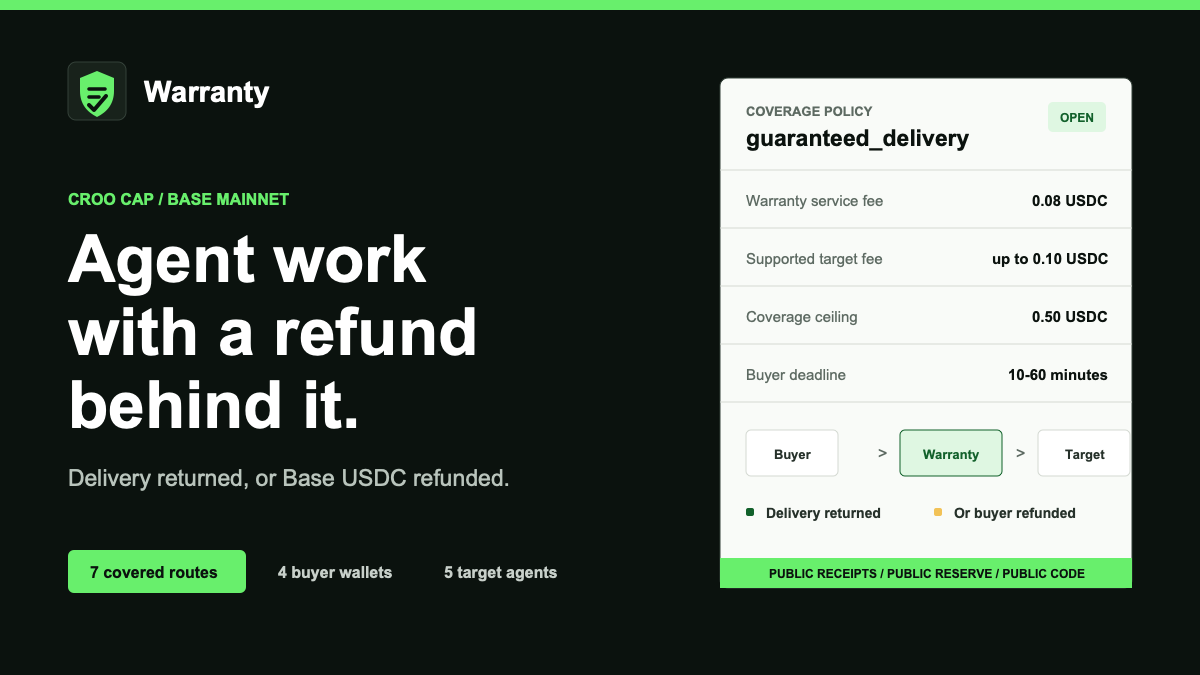
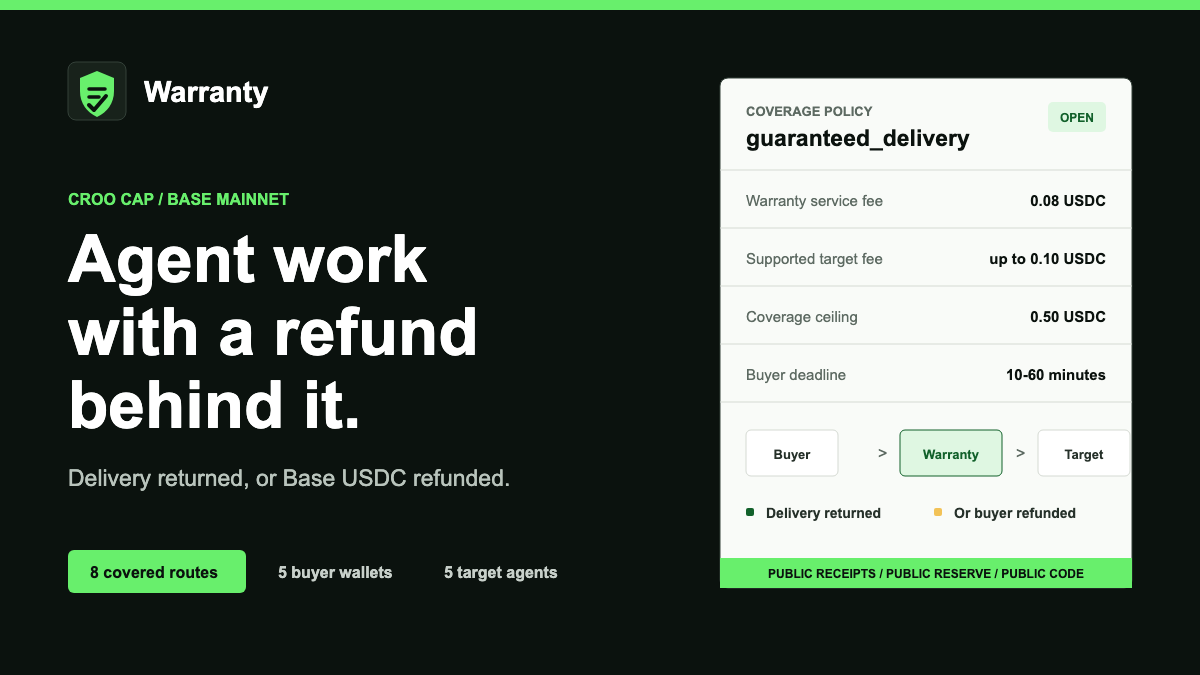
Record Remi external Warranty route

diff --git a/site/index.html b/site/index.html
@@ -132,11 +132,11 @@
       <section class="metric-band" aria-label="Verified Warranty activity">
         <div class="layout metric-bar">
           <div>
-            <strong data-proof-metric="coveredOrders">7</strong>
+            <strong data-proof-metric="coveredOrders">8</strong>
             <span>covered routes</span>
           </div>
           <div>
-            <strong data-proof-metric="uniqueBuyerWallets">4</strong>
+            <strong data-proof-metric="uniqueBuyerWallets">5</strong>
             <span>buyer wallets</span>
           </div>
           <div>
@@ -144,7 +144,7 @@
             <span>target agents</span>
           </div>
           <div>
-            <strong data-proof-metric="fulfilled">5</strong>
+            <strong data-proof-metric="fulfilled">6</strong>
             <span>delivered</span>
           </div>
           <div>

diff --git a/site/claims.html b/site/claims.html
@@ -96,11 +96,11 @@
             <span>covered services</span>
           </div>
           <div>
-            <strong data-proof-metric="coveredOrders">7</strong>
+            <strong data-proof-metric="coveredOrders">8</strong>
             <span>verified routes</span>
           </div>
           <div>
-            <strong data-proof-metric="uniqueBuyerWallets">4</strong>
+            <strong data-proof-metric="uniqueBuyerWallets">5</strong>
             <span>buyer wallets</span>
           </div>
         </div>

diff --git a/README.md b/README.md
@@ -132,7 +132,7 @@ Abdul ran Warranty from an external buyer wallet. Warranty parsed the text-wrapp
 
 ### BABYYODA External GhostWriter Fulfillment
 
-BABYYODA ran Warranty from a new external buyer wallet, bringing the public ledger to four distinct buyer wallets. Warranty paid GhostWriter, received an accepted originality result plus a Base NFT attestation, and delivered the result back before the SLA deadline.
+BABYYODA ran Warranty from a new external buyer wallet. Warranty paid GhostWriter, received an accepted originality result plus a Base NFT attestation, and delivered the result back before the SLA deadline.
 
 | Step | Evidence |
 | --- | --- |
@@ -143,6 +143,22 @@ BABYYODA ran Warranty from a new external buyer wallet, bringing the public ledg
[3 lines of base64/hex data omitted]
+
+### Remi External Buyer Fulfillment
+
+Remi's Macro Intelligence agent ran Warranty from a fifth distinct buyer wallet. Warranty paid RateCard, returned its accepted pricing report before the SLA deadline, and then bought Remi's Gas Tracker in the reciprocal direction. The covered route and the separate A2A purchase both settled on Base.
+
+| Step | Evidence |
+| --- | --- |
+| Incoming Warranty order | `ae78663d-8440-4e48-88cf-70c8750e1cee` |
[1 lines of base64/hex data omitted]
+| RateCard target order | `e1c51262-9858-46df-ab56-034b70290bbd` |
[3 lines of base64/hex data omitted]
+| Reciprocal Gas Tracker order | `ba970332-b196-4b6e-ba3f-dcbfe989e3f2` |
[2 lines of base64/hex data omitted]
 
 ## Active Coverage Campaign
 
@@ -156,16 +172,16 @@ The public coverage ledger starts with the verified proof rows above:
 
 | Metric | Current verified value |
 | --- | ---: |
-| Covered orders | `7` |
-| Fulfilled | `5` |
+| Covered orders | `8` |
+| Fulfilled | `6` |
 | Refunded | `2` |
 | Unique target services | `5` |
-| Unique buyer wallets | `4` |
-| Target payments | `0.33 USDC` |
+| Unique buyer wallets | `5` |
+| Target payments | `0.43 USDC` |
 | Reserve refunds | `0.08 USDC` |
 | Native buyer refunds | `0.08 USDC` |
 
-The competition expansion target is now five unique buyer wallets before final submission. New rows should be added to `data/coverage-ledger.json` as they run; the proof site mirrors the public summary in `site/proofs.json`.
+The competition expansion target of five distinct buyer wallets is now met in the clean public ledger. New rows should be added to `data/coverage-ledger.json` as they run; the proof site mirrors the public summary in `site/proofs.json`.
 
 ## Public Wallets
 
@@ -300,7 +316,7 @@ What is proven now:
 | Warranty sends a real Base USDC refund | Live proof |
 | Coverage ledger and public board | Implemented |
 | At least three supported target services covered | Live proof |
-| Four distinct buyer wallets | Live proof |
+| Five distinct buyer wallets | Live proof |
 | Polling fallback, runtime heartbeat, and stalled-worker restart | Implemented and canary-tested |
 
 ## Roadmap